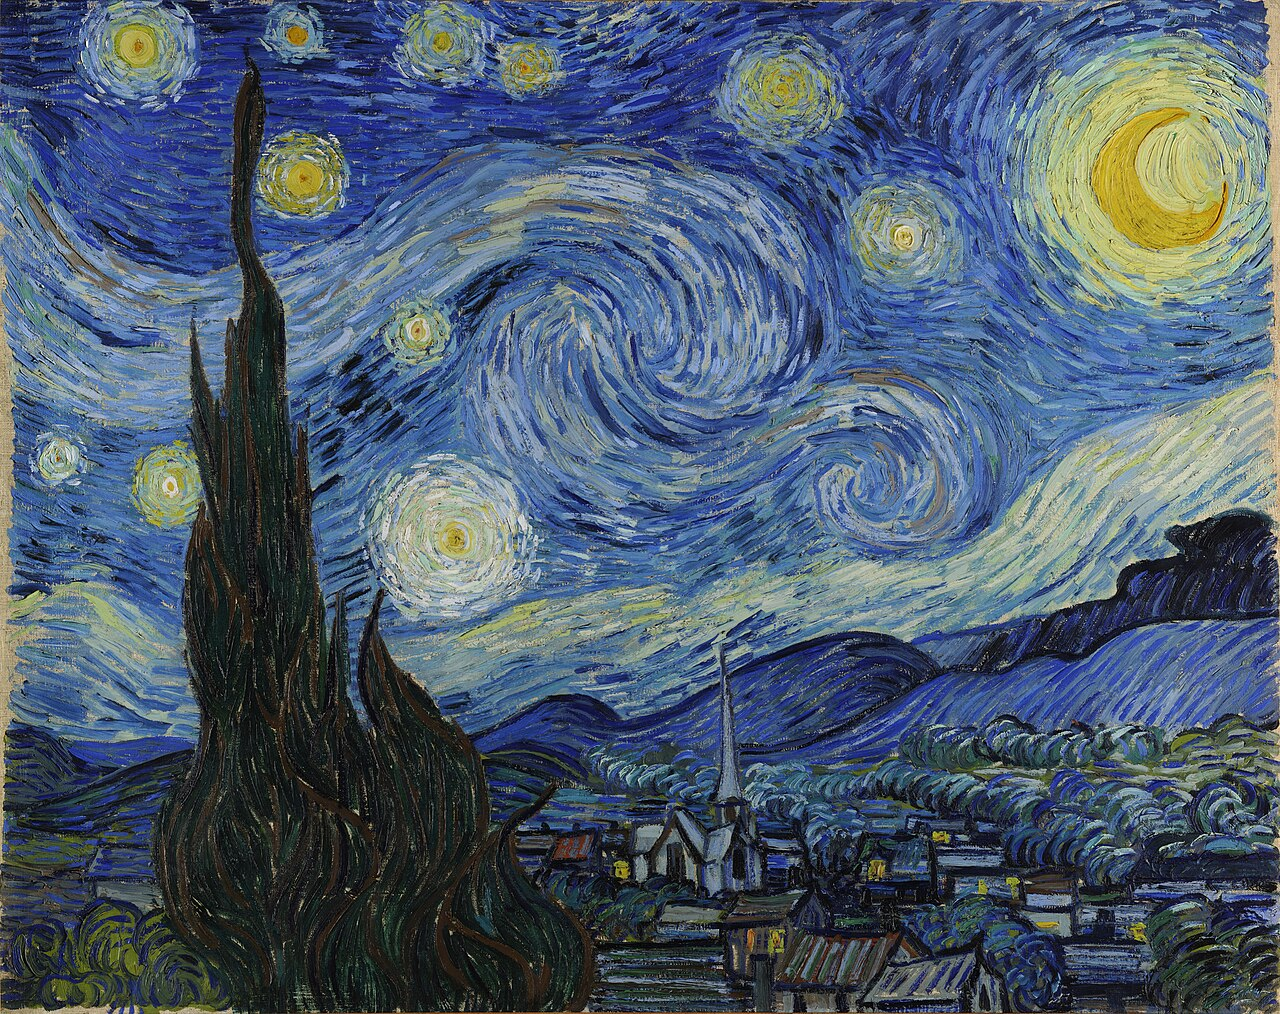
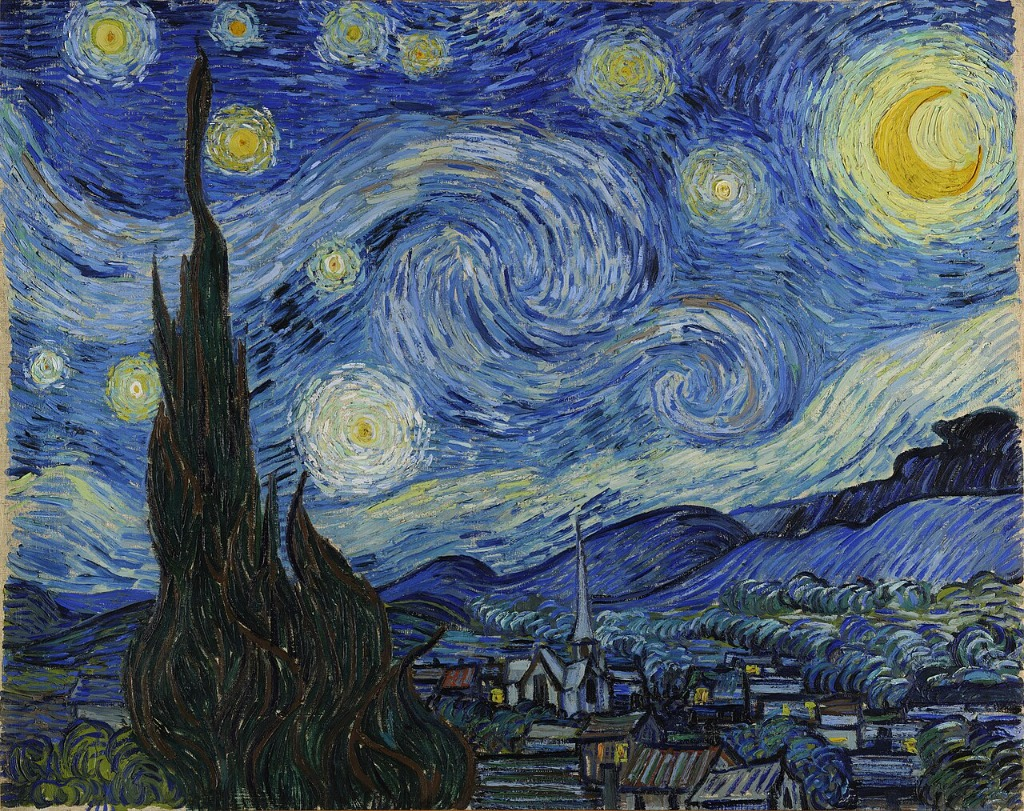
Add starry night background to Education section

diff --git a/components/AcademicAchievements.tsx b/components/AcademicAchievements.tsx
@@ -5,8 +5,20 @@ import { academicStats } from "@/data/academic";
 
 export default function AcademicAchievements() {
   return (
-    <section id="academic" className="py-20 bg-gradient-to-br from-gray-50 to-white">
-      <div className="max-w-7xl mx-auto px-4 sm:px-6 lg:px-8">
+    <section
+      id="academic"
+      className="py-20 relative"
+      style={{
+        backgroundImage: 'url(/starry_night.jpg)',
+        backgroundSize: 'cover',
+        backgroundPosition: 'center',
+        backgroundAttachment: 'fixed',
+      }}
+    >
+      {/* Overlay for readability */}
+      <div className="absolute inset-0 bg-white/80 backdrop-blur-sm"></div>
+
+      <div className="relative max-w-7xl mx-auto px-4 sm:px-6 lg:px-8">
         <motion.div
           initial={{ opacity: 0, y: 30 }}
           whileInView={{ opacity: 1, y: 0 }}
